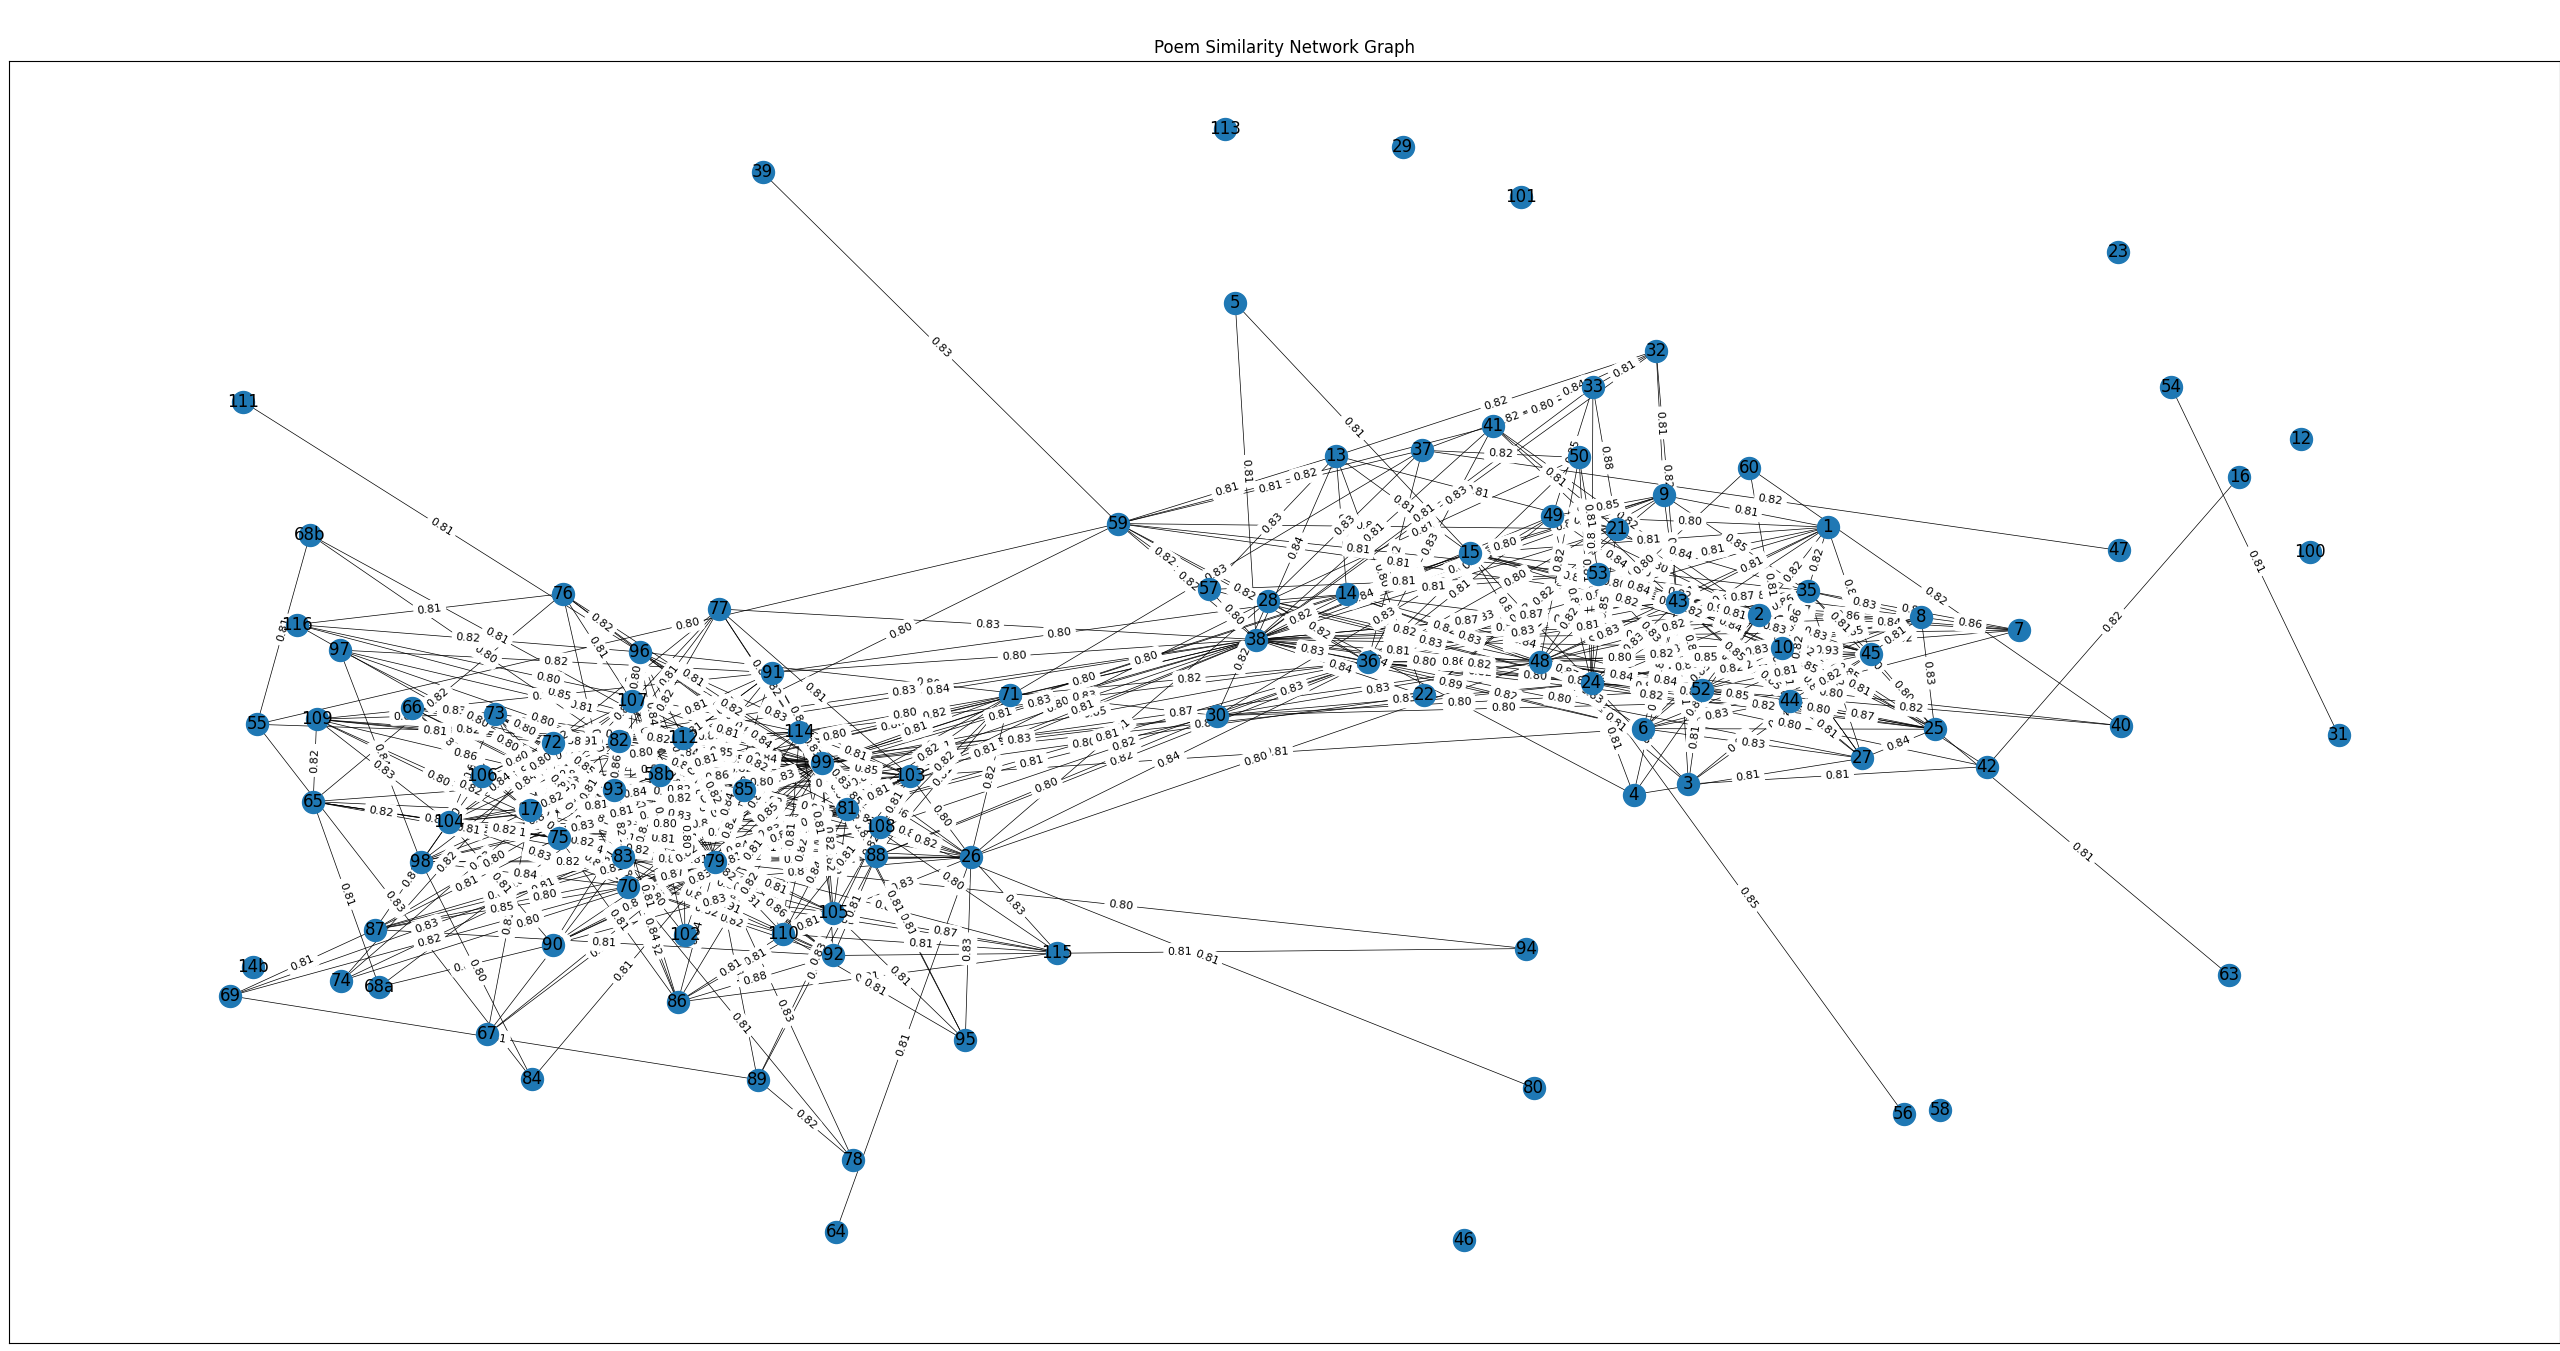
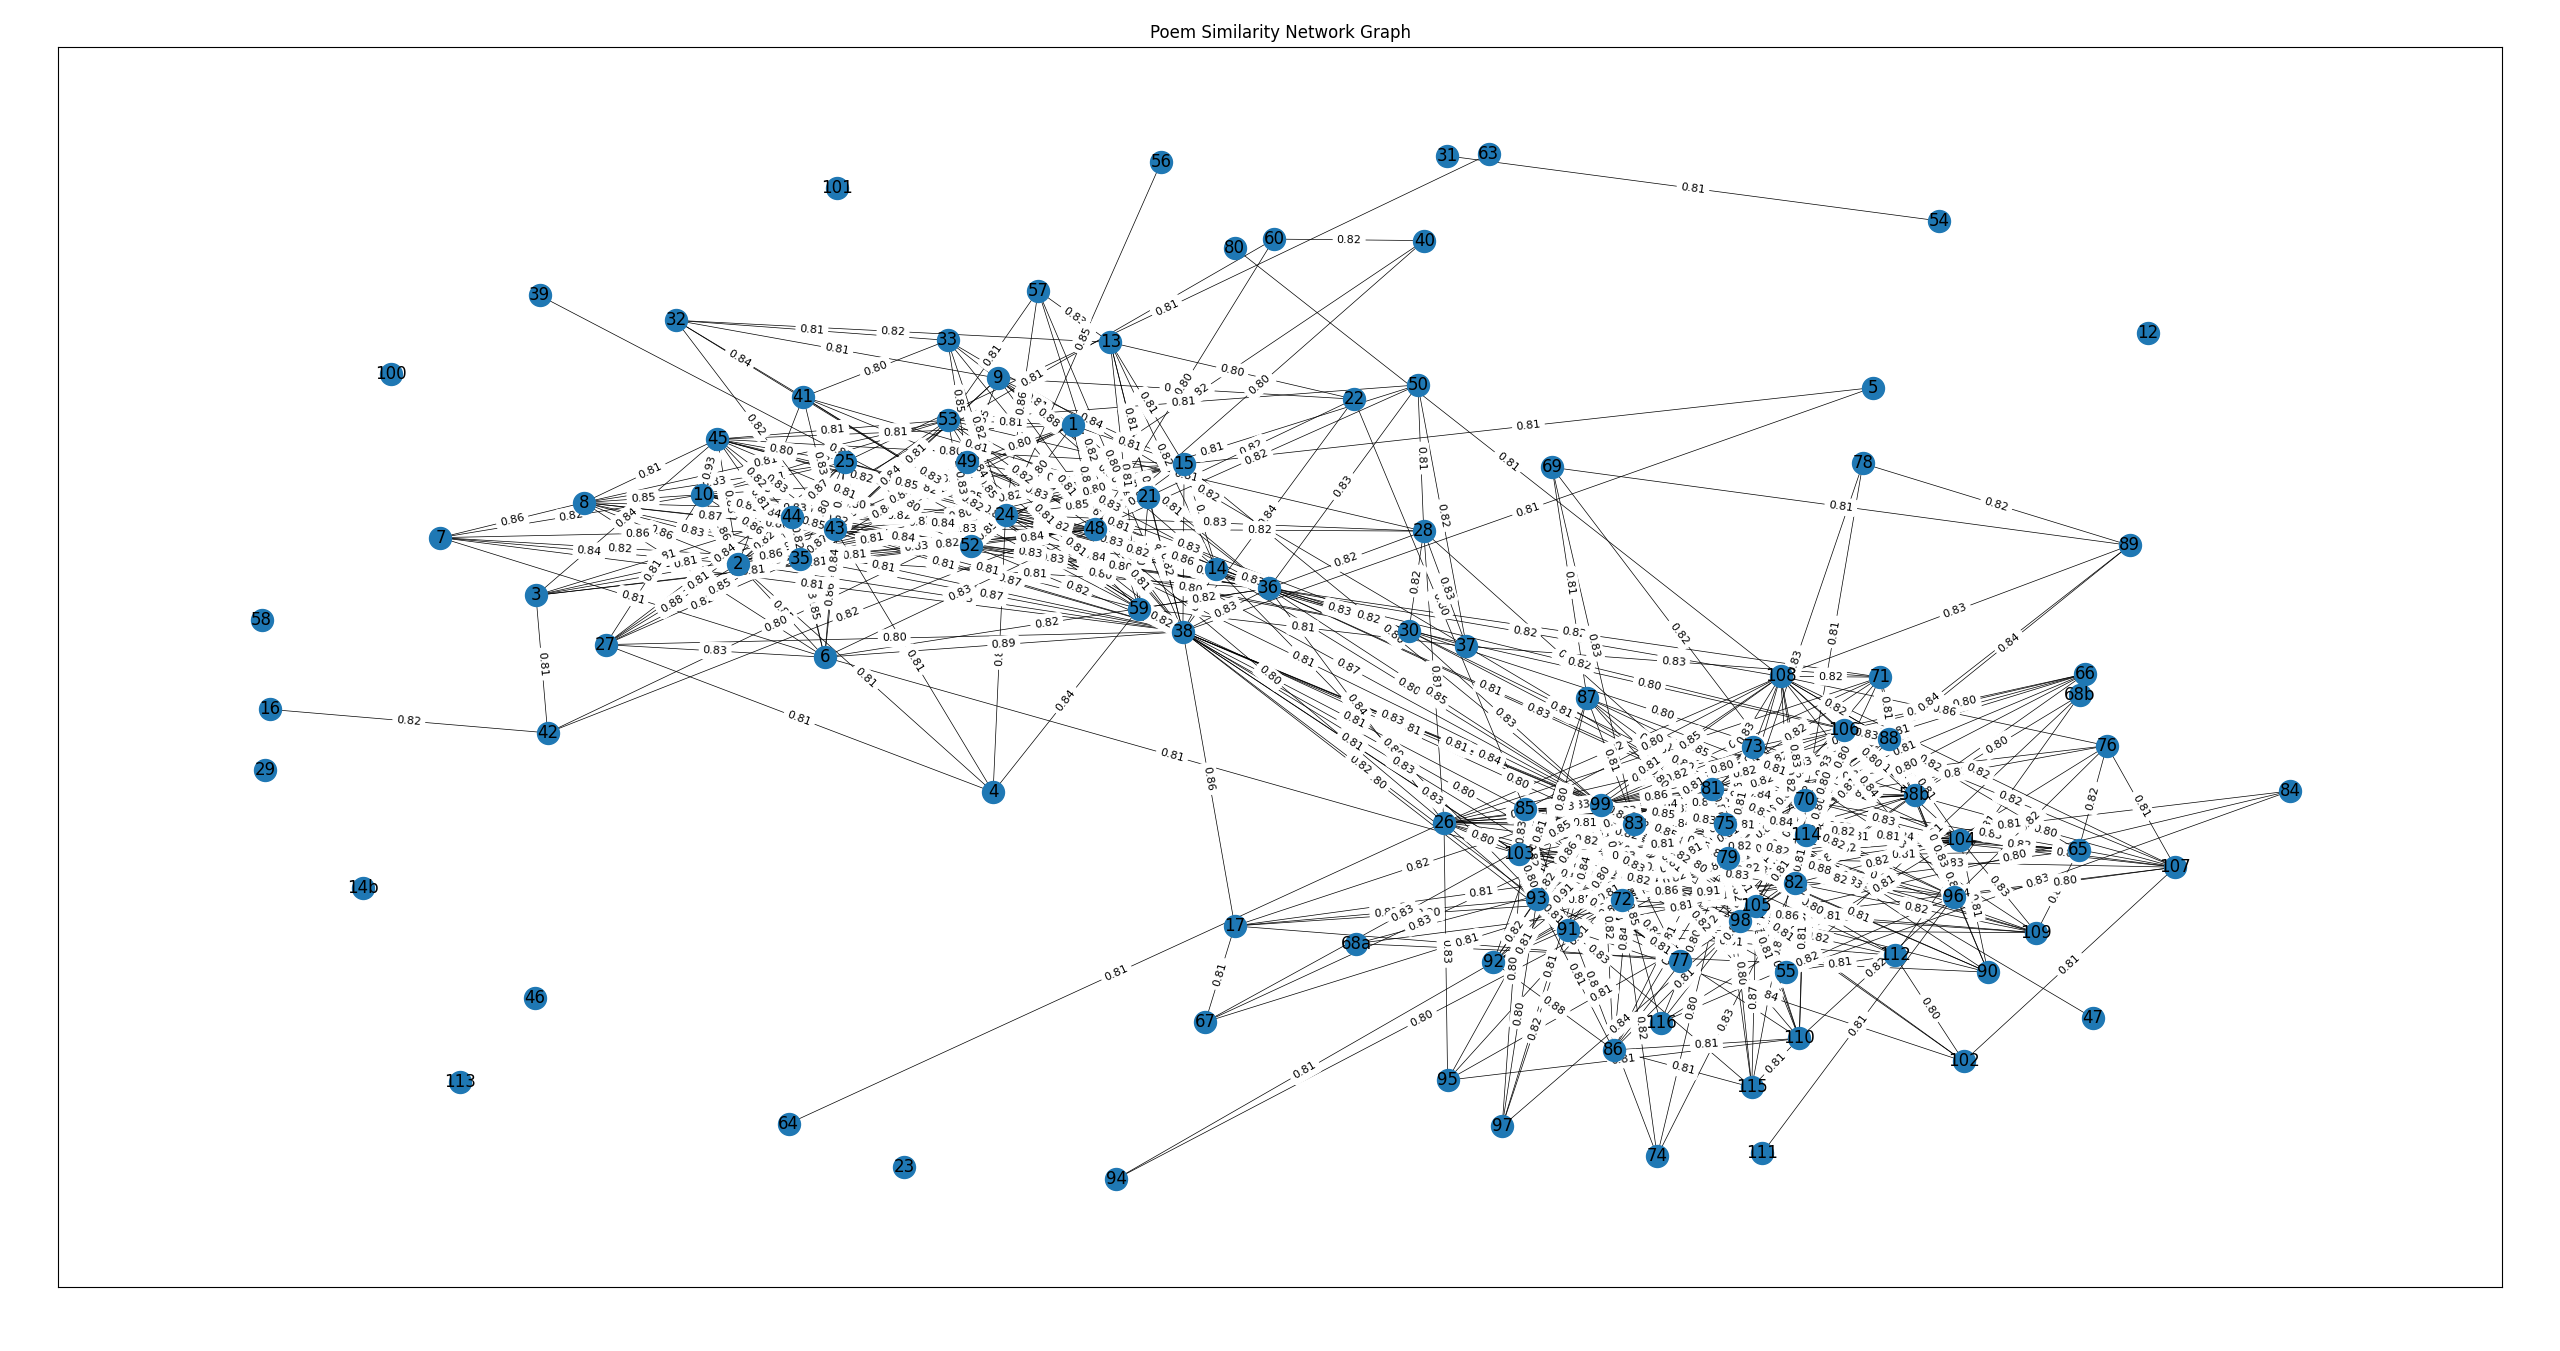
new graph

diff --git a/test_data/plot_lines.py b/test_data/plot_lines.py
@@ -16,7 +16,7 @@ def show_graph_with_labels(dataframe):
   edges = list(zip(filtered_sim['Poem1'], filtered_sim['Poem2'], filtered_sim['Similarity']))
   G.add_weighted_edges_from(edges)
 
-  pos = nx.spring_layout(G, k=0.5)  
+  pos = nx.spring_layout(G, weight='weight', k=0.6, scale=1)  
   nx.draw_networkx_nodes(G, pos, node_size=250)
 
   edges = nx.draw_networkx_edges(G, pos, width=0.5)
